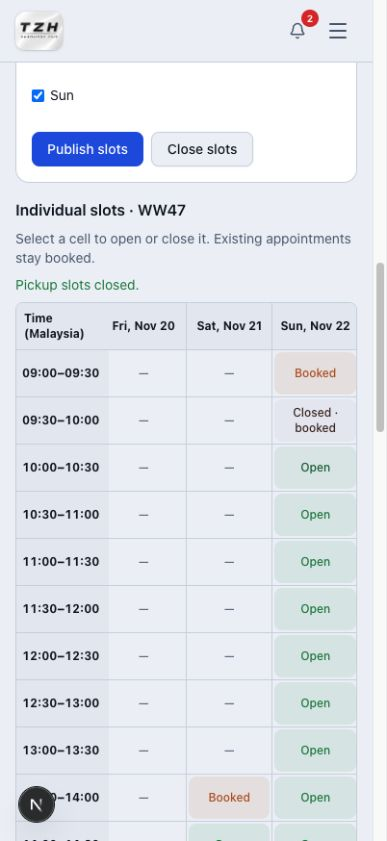
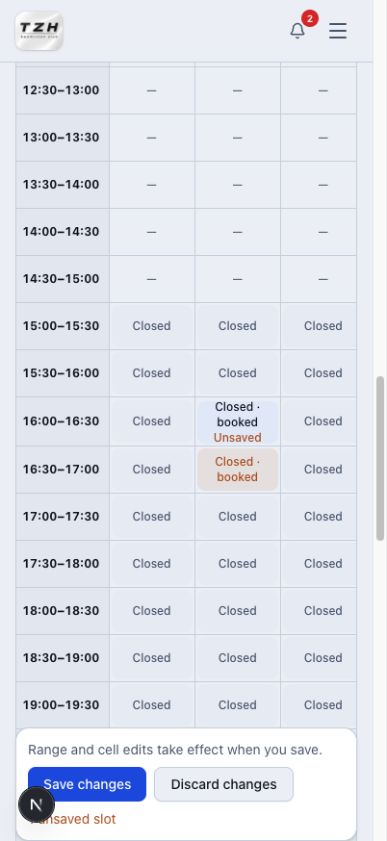
docs: show how to stage and save stringing availability

diff --git a/website/stringing.md b/website/stringing.md
@@ -21,13 +21,15 @@ For a complete example, follow [one customer visit from request through collecti
 
 **Admin → Stringing → Pickup availability.** The page shows today's date and current week number. Choose a **WW** card. **Not set** means the week has no upcoming published slots. A **Set** card shows how many slots are published.
 
-Under **Bulk availability**, choose how many weeks to update, starting with the selected week. Set the weekdays and hours, then select **Publish slots**. Use **Close slots** to withdraw matching slots. Times that have passed are skipped.
+Under **Bulk availability**, choose how many weeks and which days to update. Pick a start and end time within their shared operating hours, then choose **Stage openings** or **Stage closures**.
 
-![Publishing availability across two numbered weeks](../images/stringing/pickup-availability-grid.jpg)
+![Staged openings across two numbered weeks](../images/stringing/pickup-availability-grid.jpg)
 
-Under **Individual slots**, select a cell to open or close that one slot. On a phone, swipe the table sideways to reach later days. **Closed · booked** means the slot is closed to new requests and the existing appointment stays booked.
+Under **Individual slots**, select a cell to stage an opening or closure. On a phone, swipe sideways to reach later days. **Closed · booked** keeps the existing appointment.
 
-![A closed slot with its booking preserved](../images/stringing/pickup-availability-cell-mobile.jpg)
+Select **Save changes** to apply all staged changes. Use **Discard changes** to clear the draft.
+
+![An unsaved cell edit and the Save changes button](../images/stringing/pickup-availability-cell-mobile.jpg)
 
 To free a slot early, choose **Ready for pickup → Confirm change** on the completed racket. An upcoming slot reopens for another stringing request. The original customer's pickup time stays on their job.
 

diff --git a/changelog/2026-11-16.md b/changelog/2026-11-16.md
@@ -27,3 +27,5 @@
 - [Choose a drop-off date and see the opening hours for that day](../website/customer-stringing.md). Awaiting deployment.
 
 - [Set stringing availability by week number or change one slot](../website/stringing.md). Awaiting deployment.
+
+- [Review and save stringing availability edits](../website/stringing.md) using time choices based on the selected days’ operating hours. Awaiting deployment.
